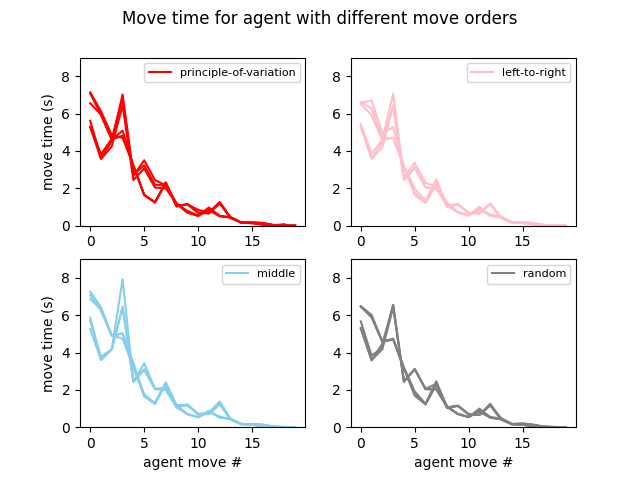
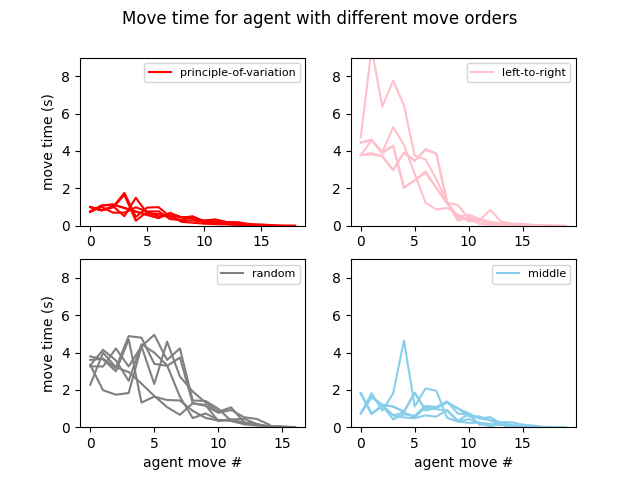
final

diff --git a/plot_timetable.py b/plot_timetable.py
@@ -37,6 +37,7 @@ plt.savefig(r'connect_four_ai\results\Figure_1.png')
 
 plt.suptitle('Move time for agent with different move orders')
 for i in range(len(player_game_timetable['pv'])):
+    
     plt.subplot(2,2,1)
     plt.plot(player_game_timetable['pv'][i], color='red')
     #plt.xlabel('agent move #')
@@ -44,6 +45,7 @@ for i in range(len(player_game_timetable['pv'])):
     plt.xticks(range(0,20,5))
     plt.ylim(0,9)
     plt.legend(['principle-of-variation'], fontsize=8)
+
     plt.subplot(2,2,2)
     plt.plot(player_game_timetable['ltr'][i], color='pink')
     #plt.xlabel('agent move #')
@@ -51,20 +53,23 @@ for i in range(len(player_game_timetable['pv'])):
     plt.xticks(range(0,20,5))
     plt.ylim(0,9)
     plt.legend(['left-to-right'], fontsize=8)
+
     plt.subplot(2,2,3)
-    plt.plot(player_game_timetable['middle'][i], color='skyblue')
+    plt.plot(player_game_timetable['random'][i], color='gray')
     plt.xlabel('agent move #')
     plt.ylabel('move time (s)')
     plt.xticks(range(0,20,5))
     plt.ylim(0,9)
-    plt.legend(['middle'], fontsize=8)
+    plt.legend(['random'], fontsize=8)
+
     plt.subplot(2,2,4)
-    plt.plot(player_game_timetable['random'][i], color='gray')
+    plt.plot(player_game_timetable['middle'][i], color='skyblue')
     plt.xlabel('agent move #')
     #plt.ylabel('move time (s)')
     plt.xticks(range(0,20,5))
     plt.ylim(0,9)
-    plt.legend(['random'], fontsize=8)
+    plt.legend(['middle'], fontsize=8)
+
 
 plt.show()
 plt.savefig(r'connect_four_ai\results\Figure_2.png')

diff --git a/grid_search_heuristics.py b/grid_search_heuristics.py
@@ -87,8 +87,8 @@ if __name__ == "__main__":
     for i in range(3):
         iterator=[x for x in range(3) if x != i]
         for j in iterator:
-            partial_agent_move1=partial(iterative_deepening_bitstring,three_piece=connected_three_pieces[i], two_piece=connected_two_pieces[i],method='pv')
-            partial_agent_move2=partial(iterative_deepening_bitstring,three_piece=connected_three_pieces[j], two_piece=connected_two_pieces[j],method='pv')
+            partial_agent_move1=partial(iterative_deepening_bitstring,three_piece=connected_three_pieces[i], two_piece=connected_two_pieces[i])
+            partial_agent_move2=partial(iterative_deepening_bitstring,three_piece=connected_three_pieces[j], two_piece=connected_two_pieces[j])
         #(board, PLAYER1,threepiece_score=connected_three_pieces[i], twopiece_score=connected_two_pieces[i])
         #(board,PLAYER2,threepiece_score=connected_three_pieces[j], twopiece_score=connected_two_pieces[j])
             output=agent_vs_agent(generate_move_1=partial_agent_move1,generate_move_2=partial_agent_move2 ) 
@@ -106,5 +106,5 @@ if __name__ == "__main__":
                 else:
                     game_score[players[i]].append(0)
     print(game_score)
-    np.save('connect_four_ai\results\game_score_heuristics.npy', game_score)
+    np.save(r'connect_four_ai\results\game_score_heuristics.npy', game_score)
         

diff --git a/grid_search_timetable.py b/grid_search_timetable.py
@@ -91,6 +91,7 @@ if __name__ == "__main__":
     for i in range(4):
         iterator=[x for x in range(4) if x != i]
         for j in iterator:
+            print(f'game_{k} = {methods[i], methods[j]}')
             game_players[f'game{k}']=[methods[i], methods[j]]
 
             partial_agent_move1=partial(iterative_deepening_bitstring, method=methods[i])
@@ -98,11 +99,11 @@ if __name__ == "__main__":
             output=agent_vs_agent_timing(generate_move_1=partial_agent_move1,generate_move_2=partial_agent_move2 ) 
             game_score[f'game{k}']=output
             k+=1
-
+        print(f'game_{k} = {methods[i], methods[j]}')
     print(game_players)  
-    np.save('connect_four_ai\results\game_players_move_ordering_timetable.npy', game_players)
+    np.save(r'connect_four_ai\results\game_players_move_ordering_timetable.npy', game_players)
     print(game_score)
-    np.save('connect_four_ai\results\game_score_move_ordering_timetable.npy', game_score)
+    np.save(r'connect_four_ai\results\game_score_move_ordering_timetable.npy', game_score)
         
 # if __name__ == "__main__":
  

diff --git a/grid_search_move_ordering.py b/grid_search_move_ordering.py
@@ -37,5 +37,5 @@ if __name__ == "__main__":
                 else:
                     game_score[methods[i]].append(0)
     print(game_score)
-    np.save('connect_four_ai\results\game_score_move_ordering.npy', game_score)
+    np.save(r'connect_four_ai\results\game_score_move_ordering.npy', game_score)
         
